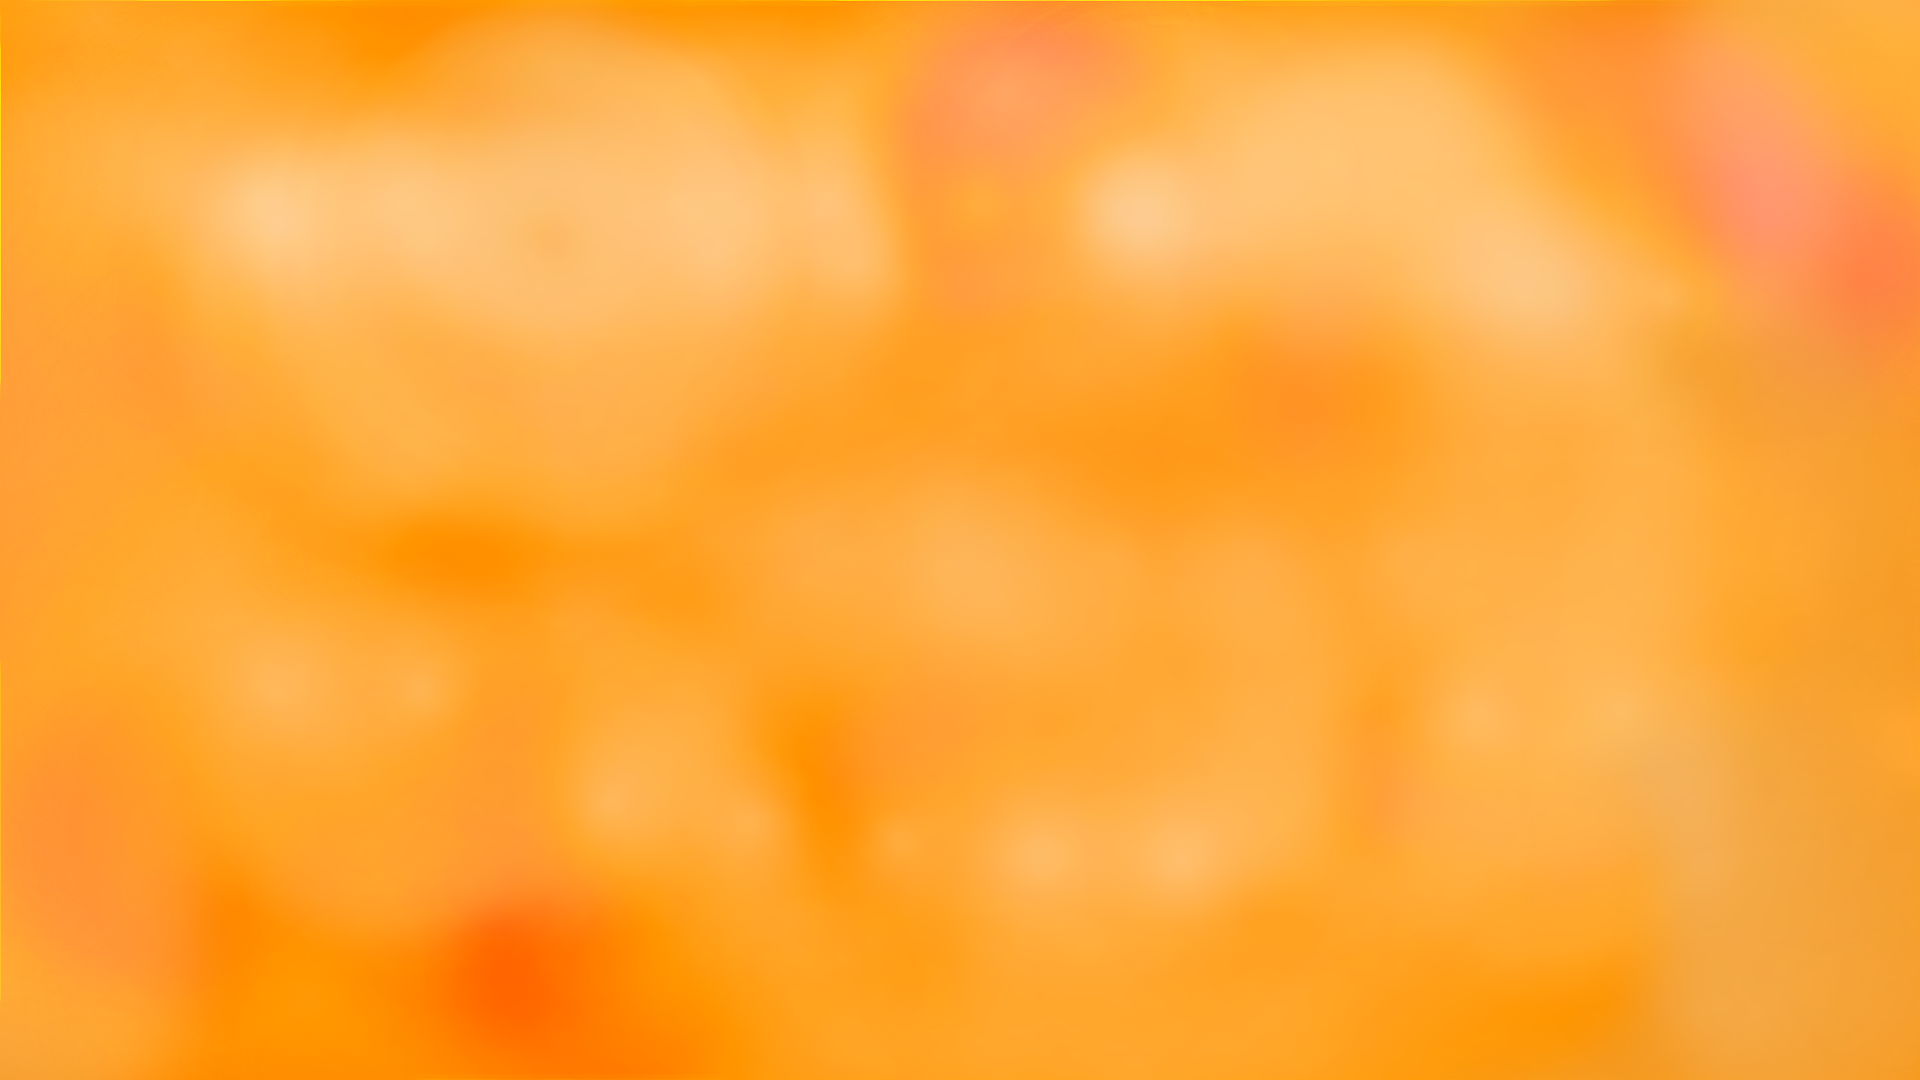
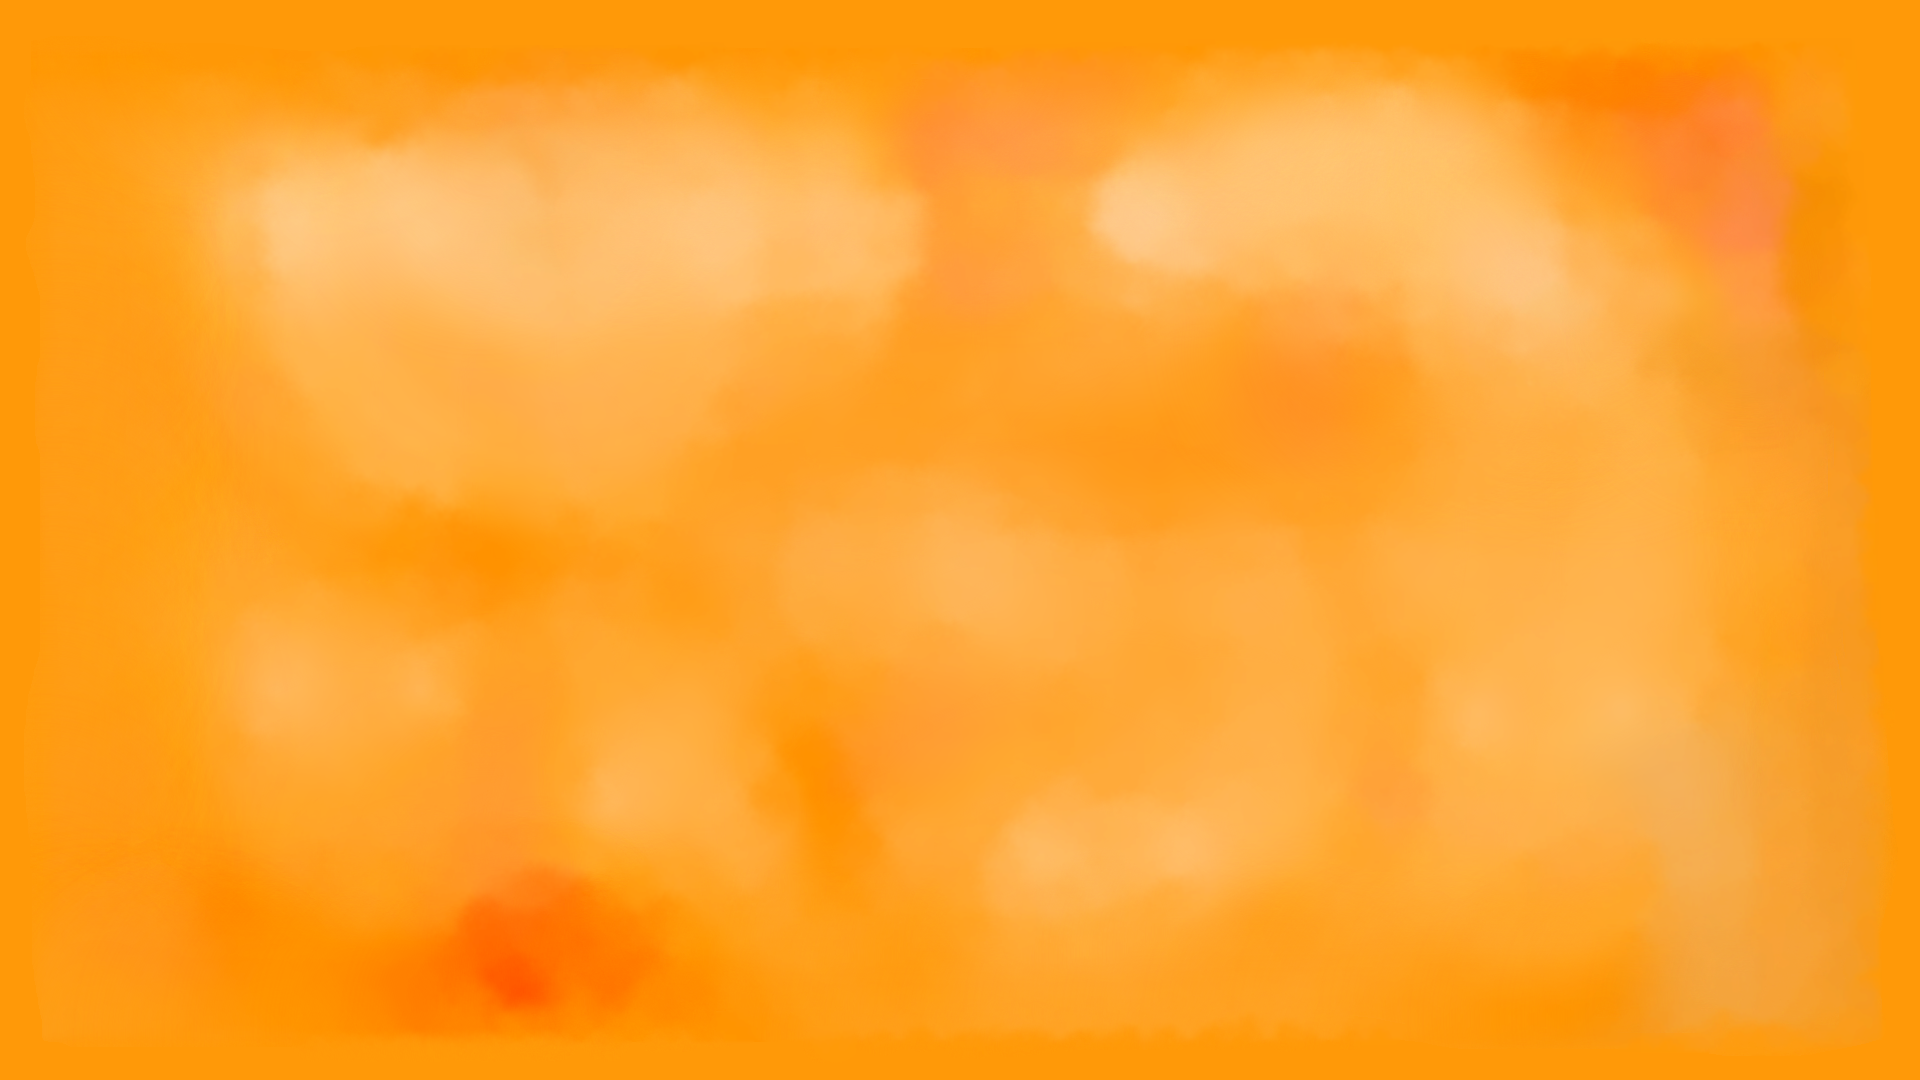
modified the sass for landing page and added new images fixing the old ones

diff --git a/style.scss b/style.scss
@@ -1,33 +1,38 @@
-// body {
-//     background: #FAFAFA;
-//   }
+//
 
-//   .box {
-//     position: absolute;
-//     top: 50%;
-//     left: 50%;
-//     transform: translate(-50%,-50%);
-//     width: 400px;
-//     height: 400px;
-//     background: #FFFFFF;
-//     border-radius: 3px;
-//     border: 1px solid rgba(#F2F4F8, 1);
-//     box-shadow: 0 0 0 rgba(0,0,0,0), 0 0 0 rgba(0,0,0,0);
-//     transition: ease-in-out .3s;
+html,
+body {
+    background: url(../images/cardback.png);
+}
 
-//     &:hover {
-//       top: calc( 50% - 2px );
-//       border: 1px solid rgba(#F2F4F8, 0);
-//       box-shadow: 0 15px 20px rgba(0,0,0,.05), 0 0 5px rgba(0,0,0,.1);
-//       cursor: pointer;
-//     }
+// .landingHeader{
 
-//     &:active {
-//       top: 50%;
-//       box-shadow: 0 5px 10px rgba(0,0,0,.05), 0 0 2px rgba(0,0,0,.1);
-//       transition: ease-in-out .1s;
-//     }
-//   }
+// }
+
+
+.box {
+    width: 450px;
+    height: 450px;
+    background: url(../images/smallback.png);
+    background-size: cover;
+    border-radius: 3px;
+    border: 1px solid rgba(#f2f4f8, 1);
+    box-shadow: 0 0 0 rgba(0, 0, 0, 0), 0 0 0 rgba(0, 0, 0, 0);
+    transition: ease-in-out 0.3s;
+
+    &:hover {
+        top: calc(50% - 2px);
+        border: 1px solid rgba(#f2f4f8, 0);
+        box-shadow: 0 15px 20px rgba(0, 0, 0, 0.05), 0 0 5px rgba(0, 0, 0, 0.1);
+        cursor: pointer;
+    }
+
+    &:active {
+        top: 50%;
+        box-shadow: 0 5px 10px rgba(0, 0, 0, 0.05), 0 0 2px rgba(0, 0, 0, 0.1);
+        transition: ease-in-out 0.1s;
+    }
+}
 
 //LANDING PAGE
 .pokedexL {
@@ -35,19 +40,25 @@
     align-items: center;
     justify-items: center;
     display: grid;
-    grid-template-rows: 50vh;
-    grid-template-columns: 33% 33% 33%;
+    grid-template-rows: 70vh;
+    grid-template-columns: 33vw 33vw 33vw;
     div {
         a {
             text-decoration: none;
+            font-size: xx-large;
+            font-weight: bold;
             color: black;
-
-            &:hover{
+            display: flex;
+            flex-wrap: wrap;
+            padding-left: 5px;
+            padding-right: 5px;
+            &:hover {
                 color: orangered;
             }
-            img{
-                max-height: 250px;
-                max-width: 250px;
+            img {
+                object-fit: cover;
+                max-height: 450px;
+                max-width: 450px;
             }
         }
     }

diff --git a/css/min/style.min.css b/css/min/style.min.css
@@ -1,1 +1,2 @@
-.pokedexL{-webkit-box-pack:center;-ms-flex-pack:center;justify-content:center;-webkit-box-align:center;-ms-flex-align:center;align-items:center;justify-items:center;display:-ms-grid;display:grid;-ms-grid-rows:50vh;grid-template-rows:50vh;-ms-grid-columns:33% 33% 33%;grid-template-columns:33% 33% 33%}.pokedexL div a{text-decoration:none;color:black}.pokedexL div a:hover{color:orangered}.pokedexL div a img{max-height:250px;max-width:250px}#charizard{-ms-grid-column:1;-ms-grid-column-span:1;grid-column:1/2}#charmander{-ms-grid-column:2;-ms-grid-column-span:1;grid-column:2/3}#charmeleon{-ms-grid-column:3;-ms-grid-column-span:1;grid-column:3/4}
+html,body{background:url(../images/cardback.png)}.box{width:450px;height:450px;background:url(../images/smallback.png);background-size:cover;border-radius:3px;border:1px solid #f2f4f8;-webkit-box-shadow:0 0 0 rgba(0,0,0,0),0 0 0 rgba(0,0,0,0);box-shadow:0 0 0 rgba(0,0,0,0),0 0 0 rgba(0,0,0,0);-webkit-transition:ease-in-out 0.3s;transition:ease-in-out 0.3s}.box:hover{top:calc(50% - 2px);border:1px solid rgba(242,244,248,0);-webkit-box-shadow:0 15px 20px rgba(0,0,0,0.05),0 0 5px rgba(0,0,0,0.1);box-shadow:0 15px 20px rgba(0,0,0,0.05),0 0 5px rgba(0,0,0,0.1);cursor:pointer}.box:active{top:50%;-webkit-box-shadow:0 5px 10px rgba(0,0,0,0.05),0 0 2px rgba(0,0,0,0.1);box-shadow:0 5px 10px rgba(0,0,0,0.05),0 0 2px rgba(0,0,0,0.1);-webkit-transition:ease-in-out 0.1s;transition:ease-in-out 0.1s}.pokedexL{-webkit-box-pack:center;-ms-flex-pack:center;justify-content:center;-webkit-box-align:center;-ms-flex-align:center;align-items:center;justify-items:center;display:-ms-grid;display:grid;-ms-grid-rows:70vh;grid-template-rows:70vh;-ms-grid-columns:33vw 33vw 33vw;grid-template-columns:33vw 33vw 33vw}.pokedexL div a{text-decoration:none;font-size:xx-large;font-weight:bold;color:black;display:-webkit-box;display:-ms-flexbox;display:flex;-ms-flex-wrap:wrap;flex-wrap:wrap;padding-left:5px;padding-right:5px}.pokedexL div a:hover{color:orangered}.pokedexL div a img{-o-object-fit:cover;object-fit:cover;max-height:450px;max-width:450px}#charizard{-ms-grid-column:1;-ms-grid-column-span:1;grid-column:1/2}#charmander{-ms-grid-column:2;-ms-grid-column-span:1;grid-column:2/3}#charmeleon{-ms-grid-column:3;-ms-grid-column-span:1;grid-column:3/4}
+/*# sourceMappingURL=style.min.css.map */

diff --git a/css/style.css b/css/style.css
@@ -1,3 +1,37 @@
+html,
+body {
+  background: url(../images/cardback.png);
+}
+
+.box {
+  width: 450px;
+  height: 450px;
+  background: url(../images/smallback.png);
+  background-size: cover;
+  border-radius: 3px;
+  border: 1px solid #f2f4f8;
+  -webkit-box-shadow: 0 0 0 rgba(0, 0, 0, 0), 0 0 0 rgba(0, 0, 0, 0);
+          box-shadow: 0 0 0 rgba(0, 0, 0, 0), 0 0 0 rgba(0, 0, 0, 0);
+  -webkit-transition: ease-in-out 0.3s;
+  transition: ease-in-out 0.3s;
+}
+
+.box:hover {
+  top: calc(50% - 2px);
+  border: 1px solid rgba(242, 244, 248, 0);
+  -webkit-box-shadow: 0 15px 20px rgba(0, 0, 0, 0.05), 0 0 5px rgba(0, 0, 0, 0.1);
+          box-shadow: 0 15px 20px rgba(0, 0, 0, 0.05), 0 0 5px rgba(0, 0, 0, 0.1);
+  cursor: pointer;
+}
+
+.box:active {
+  top: 50%;
+  -webkit-box-shadow: 0 5px 10px rgba(0, 0, 0, 0.05), 0 0 2px rgba(0, 0, 0, 0.1);
+          box-shadow: 0 5px 10px rgba(0, 0, 0, 0.05), 0 0 2px rgba(0, 0, 0, 0.1);
+  -webkit-transition: ease-in-out 0.1s;
+  transition: ease-in-out 0.1s;
+}
+
 .pokedexL {
   -webkit-box-pack: center;
       -ms-flex-pack: center;
@@ -8,15 +42,24 @@
   justify-items: center;
   display: -ms-grid;
   display: grid;
-  -ms-grid-rows: 50vh;
-      grid-template-rows: 50vh;
-  -ms-grid-columns: 33% 33% 33%;
-      grid-template-columns: 33% 33% 33%;
+  -ms-grid-rows: 70vh;
+      grid-template-rows: 70vh;
+  -ms-grid-columns: 33vw 33vw 33vw;
+      grid-template-columns: 33vw 33vw 33vw;
 }
 
 .pokedexL div a {
   text-decoration: none;
+  font-size: xx-large;
+  font-weight: bold;
   color: black;
+  display: -webkit-box;
+  display: -ms-flexbox;
+  display: flex;
+  -ms-flex-wrap: wrap;
+      flex-wrap: wrap;
+  padding-left: 5px;
+  padding-right: 5px;
 }
 
 .pokedexL div a:hover {
@@ -24,8 +67,10 @@
 }
 
 .pokedexL div a img {
-  max-height: 250px;
-  max-width: 250px;
+  -o-object-fit: cover;
+     object-fit: cover;
+  max-height: 450px;
+  max-width: 450px;
 }
 
 #charizard {
@@ -45,3 +90,4 @@
   -ms-grid-column-span: 1;
   grid-column: 3/4;
 }
+/*# sourceMappingURL=style.css.map */

diff --git a/index.html b/index.html
@@ -15,7 +15,7 @@
 </head>
 
 <body>
-    <h1>Pokedex</h1>
+    <h1 class="landingHeader">Pokedex</h1>
     <p>Hello welcome to the pokemon Pokedex Please take a look at the current pokemon we have to show</p>
 
     <div class="Pokecringe">
@@ -28,22 +28,28 @@
 
         <div id="charzard">
             <a href>
-                <img src="images/006Charizard_AG_anime.png" >
-                <p>#006 Charizard</p>
+                <div class="box">
+                    <img src="images/charzard.png">
+                    <p>#006 Charizard</p>
+                </div>
             </a>
         </div>
 
         <div id="Charmeleon">
             <a href>
-                <img src="images/charmeleon 4k.jpg" >
-                <p>#005 Charmeleon</p>
+                <div class="box">
+                    <img src="images/charmeleon 4k.png">
+                    <p>#005 Charmeleon</p>
+                </div>
             </a>
         </div>
 
         <div id="Charmander">
             <a href="google.com">
-                <img src="images/charmander-256x256.png">
-                <p>#004 Charmander</p>
+                <div class="box">
+                    <img src="images/charmander-256x256.png">
+                    <p>#004 Charmander</p>
+                </div>
             </a>
         </div>
 

diff --git a/Charizard/charizard.js b/Charizard/charizard.js
@@ -159,15 +159,15 @@ function createSection(obj) {
 
 
 
-    // const _baseXP = obj['base_experience']
-    // const _baseXPContainer = document.createElement('div')
-    // function createXP(){
-    //     const _h2 = document.createElement('h2')
-    //     _h2.textContent = `Base XP: ${_baseXP}`
-    //     section.appendChild(_baseXPContainer)
-    //     _baseXPContainer.appendChild(_h2)
-    // }
-    // createXP()
+    const _order = obj['base_experience']
+    const _orderContainer = document.createElement('div')
+    function createorder(){
+        const _h2 = document.createElement('h2')
+        _h2.textContent = `Order: ${_order}`
+        section.appendChild(_orderContainer)
+        _orderContainer.appendChild(_h2)
+    }
+    createorder()
 
     // const _baseXP = obj['base_experience']
     // const _baseXPContainer = document.createElement('div')

diff --git a/Charizard/charizard.html b/Charizard/charizard.html
@@ -15,8 +15,7 @@
 </head>
 
 <body>
-    <h1>Welcome to the pokedex</h1>
-<p>Come and take a look at the current statistics of the pokemon we have</p>
+    
 
     <header id="header"></header>
     <section id="section"></section>
